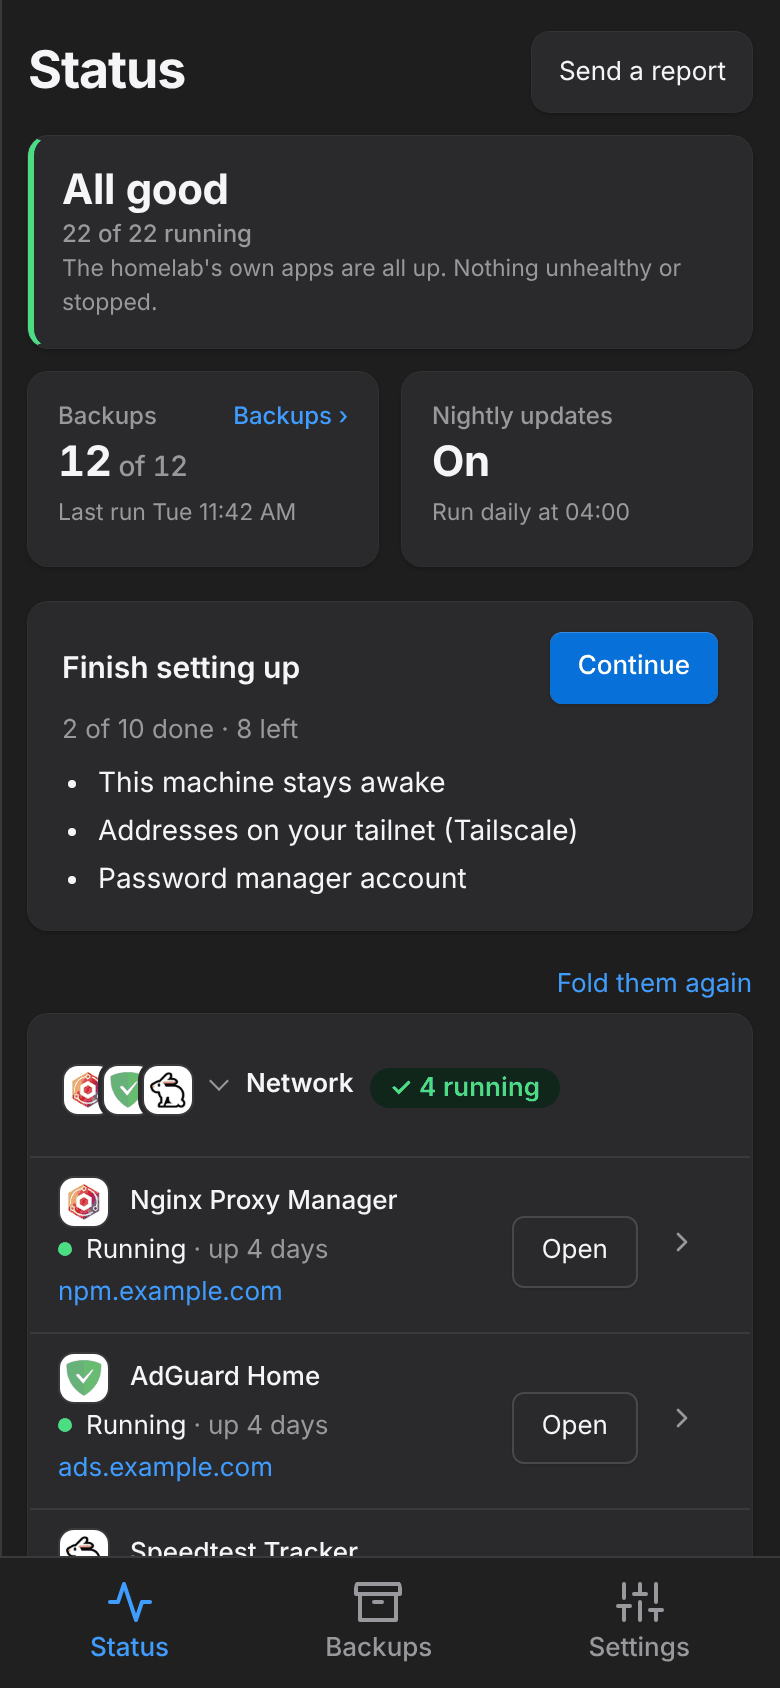
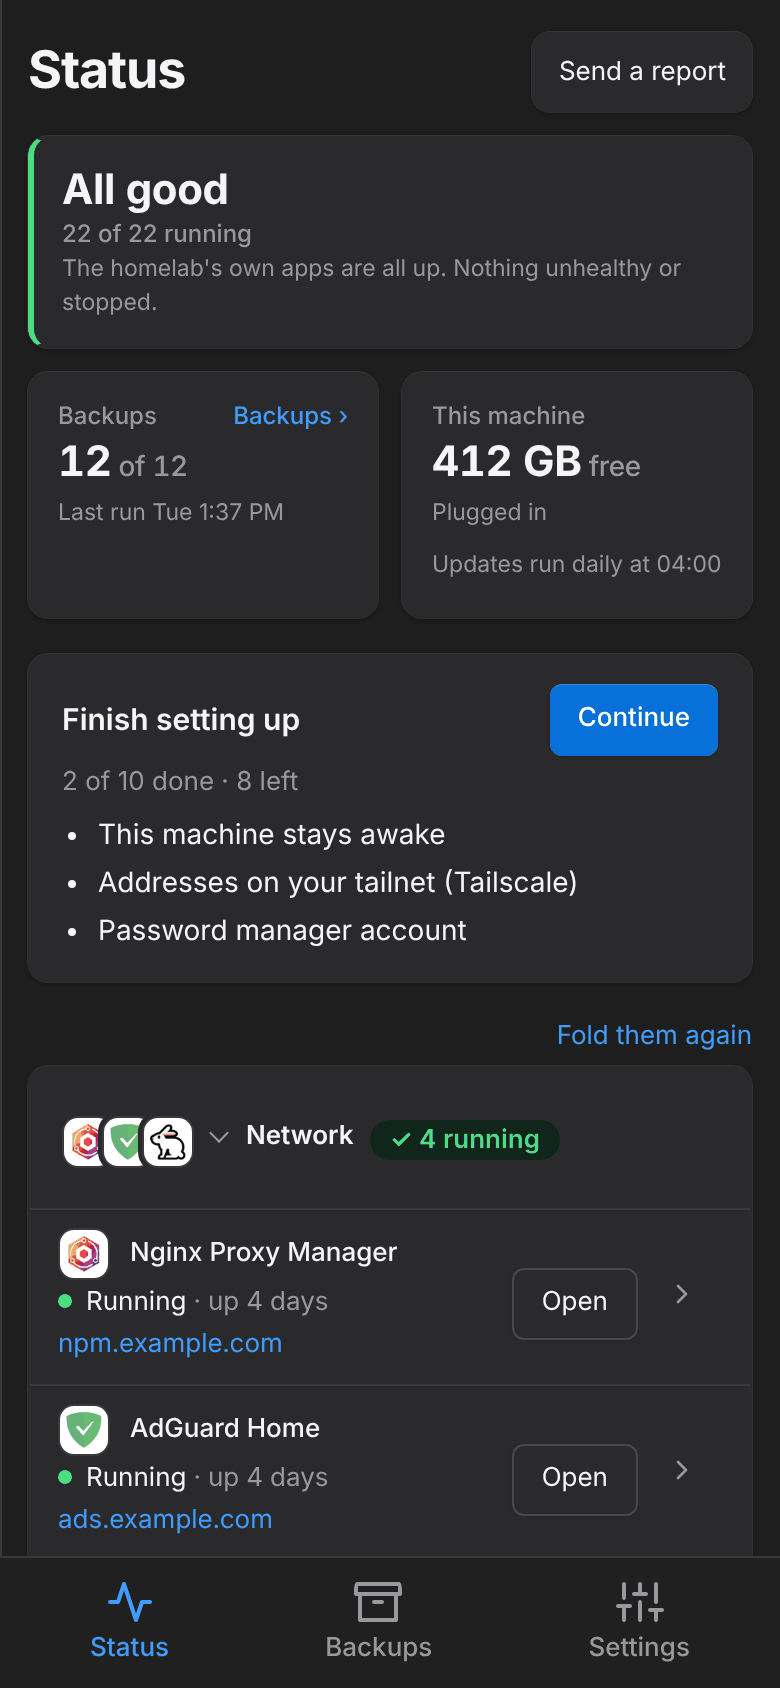
This machine on the phone's Status, from the computer's machine card
In the browser on a phone, Status shows This machine beside Backups, as the computer and the Homelab app do: the free space the computer sends (core.Machine, in 1024s as its own card says it), plugged in or on battery (amber), and the nightly updates with Pause, in place of the Nightly updates tile. The phone asks for the machine card with the others.

Claude-Session: https://claude.ai/code/session_01MiSTxseDPUYYgrtQvknXsP

diff --git a/web/dist/app.js b/web/dist/app.js
@@ -1116,7 +1116,7 @@
   }
   var awaitingJobs = (a3) => a3.id === "homelab-companion" && a3.state === "not running";
   var troubled = (a3, held3 = {}) => a3.health === "unhealthy" || a3.health === "restarting" || !!a3.notAnswering || a3.state === "missing" || a3.state === "stopped" && (!held3[a3.id] || keptRestarting(held3[a3.id]));
-  function Tiles({ status: st, history, onPause, onChoose, words: words5, start, logs, open: open5, backups, openBackups, mac }) {
+  function Tiles({ status: st, history, onPause, onChoose, words: words5, start, logs, open: open5, backups, openBackups, mac, machine }) {
     if (!st.apps.length) {
       return /* @__PURE__ */ u3(Card, { kind: "emptystate", id: "statusEmpty", children: [
         /* @__PURE__ */ u3("h2", { children: "No apps yet" }),
@@ -1186,7 +1186,7 @@
           ] }) : ""
         ] }) })
       ] }),
-      mac ? /* @__PURE__ */ u3(MacCard, { mac, updates: u4, onPause }) : /* @__PURE__ */ u3(
+      mac ? /* @__PURE__ */ u3(MacCard, { mac, updates: u4, onPause }) : machine?.total ? /* @__PURE__ */ u3(MachineCard, { m: machine, updates: u4, onPause }) : /* @__PURE__ */ u3(
         Tile,
         {
           label: "Nightly updates",
@@ -1197,6 +1197,21 @@
           ] })
         }
       )
+    ] });
+  }
+  function MachineCard({ m: m3, updates: u4, onPause }) {
+    const power = m3.power === "battery" ? { words: "On battery", tone: "warn" } : m3.power === "plugged" ? m3.keptAwake ? { words: "Plugged in", tone: "" } : { words: "Plugged in, may sleep", tone: "warn" } : null;
+    return /* @__PURE__ */ u3(Card, { kind: "tile statuscard", id: "statusMachine", children: [
+      /* @__PURE__ */ u3("div", { class: "label", children: "This machine" }),
+      /* @__PURE__ */ u3("div", { class: "value" + (m3.low ? " bad" : ""), children: [
+        bytes(m3.free),
+        /* @__PURE__ */ u3("small", { children: " free" })
+      ] }),
+      power && /* @__PURE__ */ u3("div", { class: "sub " + power.tone, children: /* @__PURE__ */ u3("span", { children: power.words }) }),
+      /* @__PURE__ */ u3("div", { class: "sub statusupdates", children: [
+        /* @__PURE__ */ u3("span", { children: u4?.paused ? "Updates paused" : `Updates ${u4?.schedule ? "run " + u4.schedule : "nightly"}` }),
+        /* @__PURE__ */ u3(PauseButton, { paused: !!u4?.paused, onPause })
+      ] })
     ] });
   }
   function MacCard({ mac, updates: u4, onPause }) {
@@ -8374,7 +8389,8 @@
       open: (a3) => pageOpener.open(a3.id),
       backups: lastNight(),
       openBackups: () => navigate("backups"),
-      mac: machineNow()
+      mac: machineNow(),
+      machine: onPhone() ? phoneMachine : null
     });
     mountSavings($("savingsCard"), { status: st, history: savingsHistory });
     if (!backupsData.value && Date.now() - backupsAsked > 6e4) {
@@ -8524,11 +8540,13 @@
     return statusData.load();
   }
   var boardNo = 0;
+  var phoneMachine = null;
   var boardStatus = null;
   var boardFailed = false;
   var boardAnswers = null;
   async function readStatus() {
     const want = ["watchdog", "crash", "alerts", "storage"];
+    if (onPhone()) want.push("machine");
     if (!savingsHistory.length) want.push("savings");
     if (Date.now() - protectionAt > 6e4) {
       protectionAt = Date.now();
@@ -8602,6 +8620,10 @@
         break;
       case "storage":
         showStorage(err ? null : data2);
+        break;
+      case "machine":
+        phoneMachine = err ? null : data2;
+        if (lastStatus) renderTiles(lastStatus);
         break;
       case "usage":
         showUsage(!err && data2 || []);

diff --git a/web/src/status/Tiles.tsx b/web/src/status/Tiles.tsx
@@ -2,7 +2,7 @@
 // the homelab saves a year, and the nightly updates (with Pause/Resume).
 import { render, type ComponentChildren } from 'preact';
 import { useState } from 'preact/hooks';
-import { dayText, dollars } from '../format';
+import { bytes, dayText, dollars } from '../format';
 import { Card } from '../parts/Card';
 import { Hover } from '../parts/Hover';
 import { Spark } from '../Spark';
@@ -111,9 +111,14 @@ export interface TilesProps {
   openBackups?: () => void;
   /** This machine's facts as Setup read them (none on a phone): the This Mac card. */
   mac?: HealthProps | null;
+  /** On a phone: the computer's free space and power as it sends them (the machine card), for This machine. */
+  machine?: MachineFacts | null;
 }
 
-export function Tiles({ status: st, history, onPause, onChoose, words, start, logs, open, backups, openBackups, mac }: TilesProps) {
+/** The computer's free space and power, as `core.MachineFacts` sends them to a phone. */
+export interface MachineFacts { free: number; total: number; low: boolean; power?: string; keptAwake: boolean }
+
+export function Tiles({ status: st, history, onPause, onChoose, words, start, logs, open, backups, openBackups, mac, machine }: TilesProps) {
   // No app yet: no 0-of-0 tiles, but what to do first (the empty list hides with it).
   if (!st.apps.length) {
     return (
@@ -158,11 +163,25 @@ export function Tiles({ status: st, history, onPause, onChoose, words, start, lo
         <div class="value">{backups ? <>{backups.copied}<small> of {backups.of}</small></> : '…'}</div>
         <div class="sub">{!backups ? 'Reading last night…' : <span>{backups.at}{backups.skipped.length ? <>{' · '}<span class="warn">{backups.skipped.join(', ')} skipped</span></> : ''}</span>}</div>
       </Card>
-      {mac ? <MacCard mac={mac} updates={u} onPause={onPause} /> : (
+      {mac ? <MacCard mac={mac} updates={u} onPause={onPause} /> : machine?.total ? <MachineCard m={machine} updates={u} onPause={onPause} /> : (
         <Tile label="Nightly updates" value={u?.paused ? 'Paused' : 'On'}
           sub={<>{u?.paused ? 'Until you resume them' : `Run ${u?.schedule}`}<PauseButton paused={!!u?.paused} onPause={onPause} /></>} />
       )}
     </>
+  );
+}
+
+/** This machine on a phone (the redesign's phone picture, as the iPhone app's): the computer's free space as the figure,
+ * its power under it (amber when it's on battery or may sleep), and the nightly updates with Pause. */
+function MachineCard({ m, updates: u, onPause }: { m: MachineFacts; updates: api.Status['updates']; onPause: (paused: boolean) => Promise<void> }) {
+  const power = m.power === 'battery' ? { words: 'On battery', tone: 'warn' } : m.power === 'plugged' ? (m.keptAwake ? { words: 'Plugged in', tone: '' } : { words: 'Plugged in, may sleep', tone: 'warn' }) : null;
+  return (
+    <Card kind="tile statuscard" id="statusMachine">
+      <div class="label">This machine</div>
+      <div class={'value' + (m.low ? ' bad' : '')}>{bytes(m.free)}<small> free</small></div>
+      {power && <div class={'sub ' + power.tone}><span>{power.words}</span></div>}
+      <div class="sub statusupdates"><span>{u?.paused ? 'Updates paused' : `Updates ${u?.schedule ? 'run ' + u.schedule : 'nightly'}`}</span><PauseButton paused={!!u?.paused} onPause={onPause} /></div>
+    </Card>
   );
 }
 

diff --git a/web/src/screens/status.ts b/web/src/screens/status.ts
@@ -3,7 +3,7 @@
 // and the phone's report.
 import { sendTo, targetsFor } from '../phone/send';
 import { ago } from '../format';
-import { mountSavings, mountTiles, troubled } from '../status/Tiles';
+import { mountSavings, mountTiles, troubled, type MachineFacts } from '../status/Tiles';
 import { machineNow, onMachine } from '../status/machine';
 import { mountUndoNote } from '../status/UndoNote';
 import { stoppedWords } from '../status/stopFor';
@@ -96,6 +96,7 @@ function renderTiles(st: api.Status) {
     backups: lastNight(),
     openBackups: () => navigate('backups'),
     mac: machineNow(),
+    machine: onPhone() ? phoneMachine : null,
   });
   mountSavings($('savingsCard'), { status: st, history: savingsHistory });
   // The Backups card's numbers: Backups' own read, asked from here at most once a minute (and kept ten minutes).
@@ -249,11 +250,15 @@ export function loadStatus() { return statusData.load(); }
 // so the quick ones show while the slow ones are still being read. The
 // cards read at most every so often are asked for only when due.
 let boardNo = 0; // the latest board asked for
+/** The computer's free space and power, on a phone (the machine card), for This machine; null until read, or from a computer that doesn't send it. */
+let phoneMachine: MachineFacts | null = null;
 let boardStatus: api.Status | null = null; // its Status, once in
 let boardFailed = false; // its Status could not be read
 let boardAnswers: Record<string, string> | null = null; // its pages' answers, once in
 async function readStatus() {
   const want = ['watchdog', 'crash', 'alerts', 'storage'];
+  // A phone can't read the machine as Setup does: the computer sends its free space and power (core.Machine) for This machine.
+  if (onPhone()) want.push('machine');
   if (!savingsHistory.length) want.push('savings');
   if (Date.now() - protectionAt > 60000) { protectionAt = Date.now(); want.push('protection'); }
   if (Date.now() - downloadsAt > 30000) { downloadsAt = Date.now(); want.push('downloads'); }
@@ -313,6 +318,10 @@ function showCard(c) {
     case 'downloads': showDownloads(err ? null : data); break;
     case 'alerts': showAlerts(data, err); break;
     case 'storage': showStorage(err ? null : data); break;
+    case 'machine':
+      phoneMachine = err ? null : data;
+      if (lastStatus) renderTiles(lastStatus);
+      break;
     case 'usage': showUsage((!err && data) || []); break;
     case 'week': showWeek(err ? null : data); break;
     case 'answers':

diff --git a/app/preview/mock.js b/app/preview/mock.js
@@ -171,6 +171,8 @@ try { if ((window.__MOCK || {}).tidyTab) localStorage.setItem('homelab.tidyTab',
     SetMenuEntry: (on) => { M.menuEntry = { added: on }; return later(null); },
     // Snooze a failing check's alerts: kept on the watchdog's summary, as the app does.
     SnoozeCheck: (check, hours) => { const w = M.watchdog || {}; const z = { ...(w.snoozed || {}) }; if (hours) z[check] = new Date(Date.now() + hours * 36e5).toISOString(); else delete z[check]; M.watchdog = { ...w, snoozed: z }; return later(null); },
+    // The computer's free space and power, the machine card a phone reads (core.Machine).
+    Machine: () => later(M.machine || { free: 412 * 2 ** 30, total: 994 * 2 ** 30, low: false, power: 'plugged', keptAwake: true }),
     Watchdog: () => later(M.watchdog || { lastRun: '0001-01-01T00:00:00Z', checks: 0, failing: [], pending: 0 }),
     RevealReport: () => later(null),
     RecoveryKit: () => later(null),
@@ -511,7 +513,7 @@ try { if ((window.__MOCK || {}).tidyTab) localStorage.setItem('homelab.tidyTab',
   // once it is read, and the pages' answers while it still checks them.
   // M.cardDelay holds a card back so many milliseconds more.
   const own = { ...app };
-  const cardOf = { watchdog: 'Watchdog', crash: 'LastCrash', savings: 'SavingsHistory', storage: 'Storage', alerts: 'Alerts', usage: 'Usage', week: 'Weekly', protection: 'Protection', downloads: 'Downloads', answers: 'Answers' };
+  const cardOf = { machine: 'Machine', watchdog: 'Watchdog', crash: 'LastCrash', savings: 'SavingsHistory', storage: 'Storage', alerts: 'Alerts', usage: 'Usage', week: 'Weekly', protection: 'Protection', downloads: 'Downloads', answers: 'Answers' };
   const files = ['watchdog', 'crash', 'savings', 'storage'];
   app.StatusBoard = (n, want) => {
     const card = (name) => later(null, M.cardDelay?.[name] || 0).then(() => own[cardOf[name]]()).then(

diff --git a/CHANGELOG.md b/CHANGELOG.md
@@ -22,6 +22,7 @@ Notes are grouped as **New**, **Improved**, and **Fixed**, one line each, in pla
 - **Sort Transactions on the Homelab app:** on the iPhone and iPad, **Sort** beside Filter sorts Transactions by the date, payee, category, account or amount, either way, as the computer's column headers do, and each device remembers its choice. By anything but the date it's one list, each row with its day, and **Newest First** goes back. A long list shows 200 rows at a time, with **Show 200 More**.
 - **Sort these on the Homelab app's Transactions:** as on the computer, the top of Transactions on the iPhone and iPad lists what looks like a planned payment, to **Link** or say **Not It**, and money out of one of your accounts with the same into another, to **Join** as one transfer or say **Not One Transfer**. Each has Undo, and works away from home too.
 <!-- Everything else (the other lanes): add a line just below this one. -->
+- **This machine on the phone's Status:** in the browser on a phone, Status shows **This machine** beside Backups, as the computer and the Homelab app do: the computer's free space, whether it's plugged in (amber on battery or when it may sleep), and the nightly updates with Pause. It takes the place of the Nightly updates tile.
 - **Settings' pages in the sidebar, as every screen's:** on the computer, Settings' list (General, People, Phones, Automatic care, Alerts, Reaching the apps, this Mac's pages, and each app's under Advanced) is its menu in the sidebar under the screens' icons, each with its icon, so the page has the whole width. In a small window with big text, the Page drop-down stays over the page. The phone's Settings is as it was.
 - **One sidebar on every screen, as on Finances:** the homelab's screens are a row of icons at the top (Setup the sixth while it has something for you), and under them the screen's own menu: Status's categories (a click opens one and goes to it), Backups' Last night, Needs you, Restore test, Off-site and Each app, Choose apps' categories, Setup's steps. Settings and the line about the computer sit at the foot on every screen, Finances included. Each icon is a plain line drawing (on a Mac, in place of the coloured squares), and the item you're on sits on a white pill with its icon in colour. A count is a soft amber dot. The foot says how the computer is in one line, **412 GB free · plugged in**, with a dot that turns amber or red when something needs you; the system and version are in its tooltip and in Settings › This Mac. Status loses its subtitle, and its **This Mac · …** line, which the This Mac card and the foot now say (a problem shows once, in its colour).
 - **Transactions: how many, in and out, and this paycheck:** a line over the table says how many transactions are shown, what came in and what went out; the date picker has **This paycheck** and **Last paycheck** with their days, beside every month.

diff --git a/docs/Parity.md b/docs/Parity.md
@@ -38,7 +38,7 @@ What a phone may do also depends on how it was paired, on every phone (the phone
 | Status's headline: how many apps need you over how many run ("1 app needs you", "21 of 22 running"), the first one's fix beside it | yes | yes | yes | yes | `Status` |
 | A category's pill: "✓ 4 running", or "1 of 2 running" when one is down | yes | yes | yes | yes | `Status` |
 | The categories as one card, a row each: the first apps' logos, the name over its apps' names, the pill, a tap to open | yes | yes | yes | gap: the iPad's Status list keeps a heading a category | `Status` |
-| Backups and This Machine beside the headline: last night's copies ("11 of 12", what was skipped), the free space, the power and the nightly updates | yes | partly: Backups and the nightly updates; gap: the page doesn't read the `machine` card yet | yes | gap: the iPad's Status list doesn't show them yet | `StatusBoard` (`machine`) |
+| Backups and This Machine beside the headline: last night's copies ("11 of 12", what was skipped), the free space, the power and the nightly updates | yes | yes | yes | gap: the iPad's Status list doesn't show them yet | `StatusBoard` (`machine`) |
 | The list of apps, live, grouped as Needs a look, Pinned, then each category | yes | yes | yes | yes | `Status`, `StatusBoard`, `LastStatus`, `Catalog`, `Screen` |
 | Each app's logo | yes | yes | yes | yes | `AppIcon` |
 | Type to find an app | yes | yes | yes (search) | yes | |
